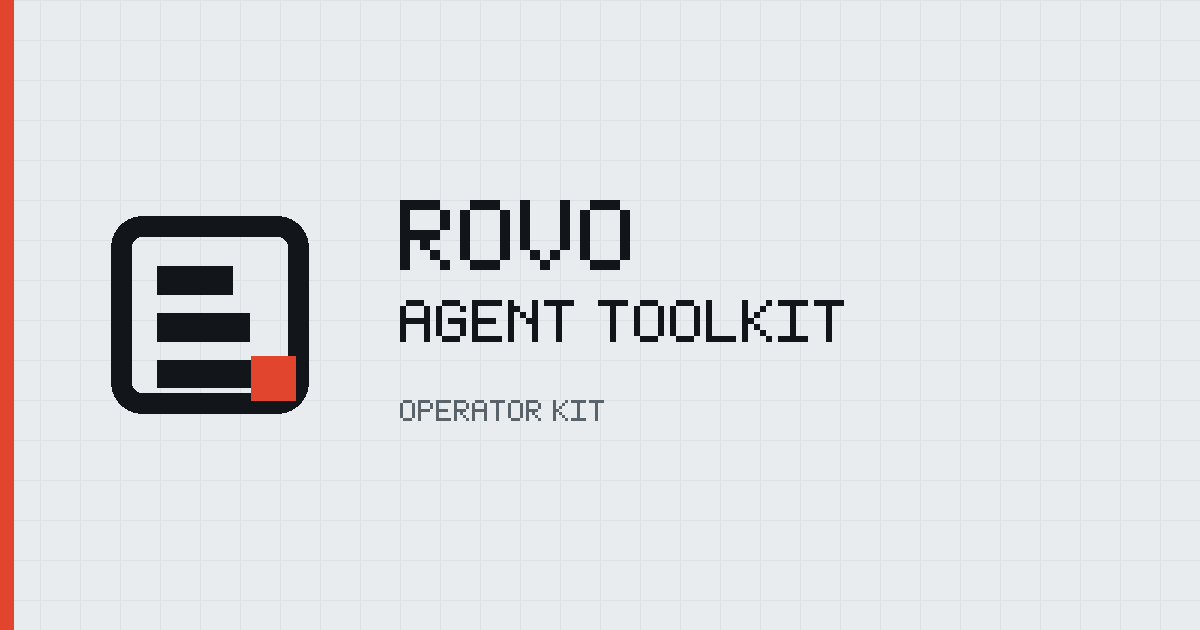
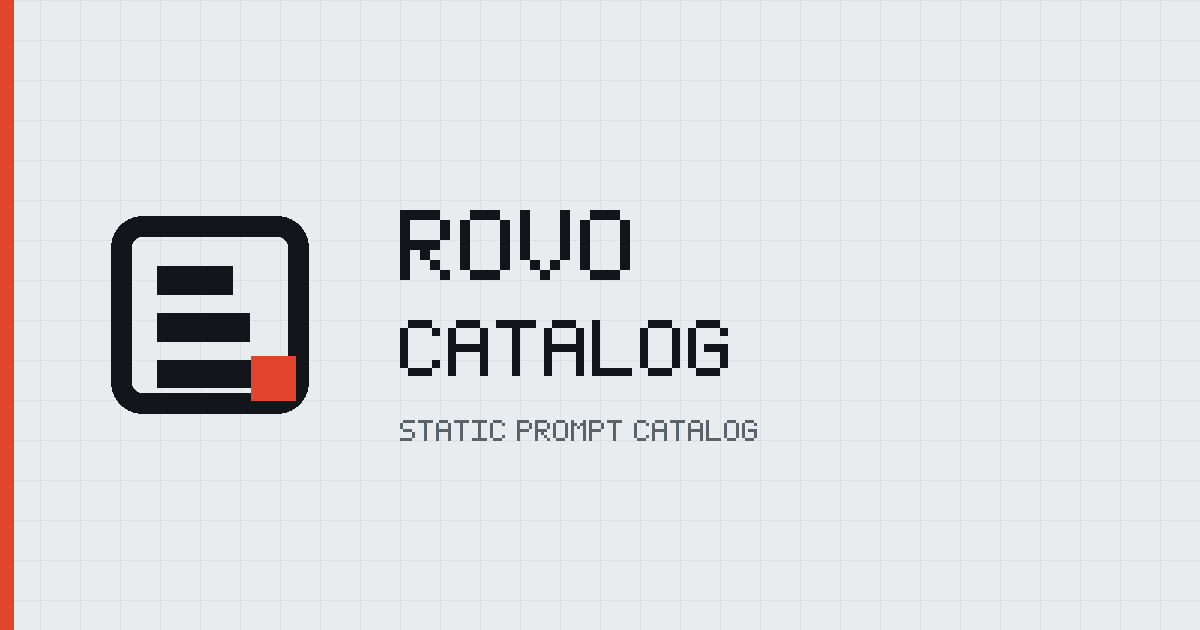
Rename product to Rovo Catalog in user-facing copy
Replace Rovo Agent Toolkit with Rovo Catalog in chrome, wordmark,
titles/meta/OG, README, and docs. Keep ticket-stack mark, repo name,
and /rovo-catalog/ Pages base path.

Changed region(s): [[0.3083, 0.3016, 0.7092, 0.6032], [0.3392, 0.6333, 0.6475, 0.7238], [0.3083, 0.5429, 0.3392, 0.573]]

diff --git a/site/templates/layout.html b/site/templates/layout.html
@@ -40,7 +40,7 @@
   <a class="skip-link" href="#main">Skip to content</a>
   <header class="site-header">
     <div class="header-inner">
-      <a class="brand" href="index.html" aria-label="Rovo Agent Toolkit home">
+      <a class="brand" href="index.html" aria-label="Rovo Catalog home">
         <span class="brand-mark" aria-hidden="true">
           <svg xmlns="http://www.w3.org/2000/svg" viewBox="0 0 32 32" fill="none" width="28" height="28" focusable="false">
             <rect x="2.5" y="2.5" width="27" height="27" rx="4" stroke="currentColor" stroke-width="2.25"/>
@@ -52,7 +52,7 @@
         </span>
         <span class="brand-text">
           <span class="brand-word">Rovo</span>
-          <span class="brand-sub">Agent Toolkit</span>
+          <span class="brand-sub">Catalog</span>
         </span>
       </a>
       <nav class="site-nav site-nav-primary" aria-label="Sections">
@@ -94,7 +94,7 @@
   </main>
   <footer class="site-footer">
     <div class="footer-inner">
-      <p class="footer-brand"><span class="brand-mark footer-mark" aria-hidden="true"><svg xmlns="http://www.w3.org/2000/svg" viewBox="0 0 32 32" fill="none" width="18" height="18" focusable="false"><rect x="2.5" y="2.5" width="27" height="27" rx="4" stroke="currentColor" stroke-width="2.25"/><rect x="8" y="8.5" width="11" height="3.25" rx="0.5" fill="currentColor"/><rect x="8" y="14.25" width="14" height="3.25" rx="0.5" fill="currentColor"/><rect x="8" y="20" width="16" height="3.25" rx="0.5" fill="currentColor"/><rect class="mark-accent" x="21.5" y="21.5" width="5.5" height="5.5" rx="1" fill="currentColor"/></svg></span> Rovo Agent Toolkit</p>
+      <p class="footer-brand"><span class="brand-mark footer-mark" aria-hidden="true"><svg xmlns="http://www.w3.org/2000/svg" viewBox="0 0 32 32" fill="none" width="18" height="18" focusable="false"><rect x="2.5" y="2.5" width="27" height="27" rx="4" stroke="currentColor" stroke-width="2.25"/><rect x="8" y="8.5" width="11" height="3.25" rx="0.5" fill="currentColor"/><rect x="8" y="14.25" width="14" height="3.25" rx="0.5" fill="currentColor"/><rect x="8" y="20" width="16" height="3.25" rx="0.5" fill="currentColor"/><rect class="mark-accent" x="21.5" y="21.5" width="5.5" height="5.5" rx="1" fill="currentColor"/></svg></span> Rovo Catalog</p>
       <p>Markdown in <code>prompts/</code> is the source of truth. Built locally — no backend.</p>
     </div>
   </footer>

diff --git a/site/scripts/build.js b/site/scripts/build.js
@@ -337,7 +337,7 @@ function buildCommandsPage() {
   });
 
   const html = layoutShell({
-    TITLE: 'Commands · Rovo Agent Toolkit',
+    TITLE: 'Commands · Rovo Catalog',
     DESCRIPTION: 'Rovo slash commands that change Jira work items.',
     BODY: body,
     ASSET_PAGE_JS: '',
@@ -524,7 +524,7 @@ function buildPromptPages(entries) {
 
     const modeClass = isHub ? 'page-prompt-hub' : `mode-${e.mode}`;
     const html = layoutShell({
-      TITLE: `${e.title} · Rovo Agent Toolkit`,
+      TITLE: `${e.title} · Rovo Catalog`,
       DESCRIPTION: e.use_when,
       BODY: body,
       ASSET_PAGE_JS: rootPath('assets/js/prompt.js'),
@@ -574,7 +574,7 @@ function main() {
   buildListPage({
     entries: listedPrompts,
     templateName: 'index.html',
-    title: 'Rovo Agent Toolkit',
+    title: 'Rovo Catalog',
     description: 'Browse Rovo prompts by situation, fill placeholders, copy, paste.',
     activeNav: 'prompts',
     bodyClass: 'page-home page-prompts',
@@ -587,7 +587,7 @@ function main() {
   buildListPage({
     entries: queries,
     templateName: 'queries.html',
-    title: 'Queries · Rovo Agent Toolkit',
+    title: 'Queries · Rovo Catalog',
     description: 'Jira JQL snippets for Rovo and Jira search.',
     activeNav: 'queries',
     bodyClass: 'page-queries',
@@ -600,7 +600,7 @@ function main() {
   writeCatalogJson(entries);
 
   console.log(
-    `Built toolkit → ${path.relative(ROOT, DIST)} (base=${BASE}): ` +
+    `Built catalog → ${path.relative(ROOT, DIST)} (base=${BASE}): ` +
       `${listedPrompts.length} listed prompts (${prompts.length} total), ${queries.length} queries`
   );
 }

diff --git a/site/templates/index.html b/site/templates/index.html
@@ -13,7 +13,7 @@
   </div>
   <h1 class="hero-title">
     <span class="hero-title-line">Rovo</span>
-    <span class="hero-title-line">Agent Toolkit</span>
+    <span class="hero-title-line">Catalog</span>
   </h1>
   <p class="hero-lead">Browse by situation, fill placeholders, copy, paste into Rovo.</p>
   <div class="hero-cta">

diff --git a/README.md b/README.md
@@ -2,7 +2,7 @@
 
 Copy-paste Rovo prompts and JQL for Jira Service Management — plus a small static app to browse, fill, and copy them.
 
-**Rovo Agent Toolkit** is a zero-dependency static site (HonorBox-style: plain HTML/CSS + tiny first-party JS). Markdown under `prompts/` stays the source of truth; `npm run build` turns frontmatter into pages under `site/dist/`.
+**Rovo Catalog** is a zero-dependency static site (HonorBox-style: plain HTML/CSS + tiny first-party JS). Markdown under `prompts/` stays the source of truth; `npm run build` turns frontmatter into pages under `site/dist/`.
 
 **How it works:** browse by situation → fill placeholders → one-click copy → paste into Rovo.
 
@@ -12,7 +12,7 @@ Copy-paste Rovo prompts and JQL for Jira Service Management — plus a small sta
 
 ## Table of Contents
 
-### Toolkit
+### Catalog
 - [Features](#features)
 - [Getting Started](#getting-started)
 - [Repository Structure](#repository-structure)
@@ -149,7 +149,7 @@ Reusable templates live in [`queries/jql/`](queries/jql/). Same schema as prompt
 │   ├── BACKLOG.md               # Product roadmap
 │   ├── prompt-schema.md         # Catalog frontmatter schema
 │   └── rovo-resources.md        # Official Rovo links
-├── site/                        # Rovo Agent Toolkit (static builder)
+├── site/                        # Rovo Catalog (static builder)
 │   ├── scripts/                 # parse-prompts.js, build.js
 │   ├── templates/
 │   ├── content/                 # Commands explainers (commands.md)

diff --git a/docs/prompt-schema.md b/docs/prompt-schema.md
@@ -3,7 +3,7 @@
 Metadata format for catalog entries in `prompts/`. Markdown is the source of truth; YAML frontmatter labels each copy-paste template so the static catalog can load it.
 
 **Product path:** browse → fill placeholders → copy → paste into Rovo  
-**Site:** HonorBox-style zero-dependency builder in [`site/`](../site/) (`npm run build` → `site/dist/`). Toolkit sections: Prompts (`lang: text`), Queries (`lang: jql`), Commands (`site/content/commands.md` slash explainers only). Plain HTML/CSS + tiny first-party JS. Not Vite. Not Backstage. GitHub Pages deploy is Phase 3.
+**Site:** HonorBox-style zero-dependency builder in [`site/`](../site/) (`npm run build` → `site/dist/`). Catalog sections: Prompts (`lang: text`), Queries (`lang: jql`), Commands (`site/content/commands.md` slash explainers only). Plain HTML/CSS + tiny first-party JS. Not Vite. Not Backstage. GitHub Pages deploy is Phase 3.
 
 ---
 

diff --git a/docs/BACKLOG.md b/docs/BACKLOG.md
@@ -62,9 +62,9 @@ Small catalog UI — HonorBox-style: zero-dependency Node build, plain HTML/CSS,
 
 ---
 
-## Phase 2.5 — Toolkit IA (post-MVP)
+## Phase 2.5 — Catalog IA (post-MVP)
 
-Shared Rovo Agent toolkit chrome on top of the Phase 2 static site.
+Shared Rovo Catalog chrome on top of the Phase 2 static site.
 
 - [x] Nav: Prompts · Commands · Queries (pages) + Profile · Theme (buttons)
 - [x] Light/dark theme (`localStorage`, no FOUC)

diff --git a/docs/plans/profile-close-on-save.md b/docs/plans/profile-close-on-save.md
@@ -2,7 +2,7 @@
 
 > Status: **done** (implemented on `cursor/rovo-toolkit-ia-de27`)
 
-Small UX fix on the Rovo Agent Toolkit header profile form.
+Small UX fix on the Rovo Catalog header profile form.
 
 ## Problem
 
